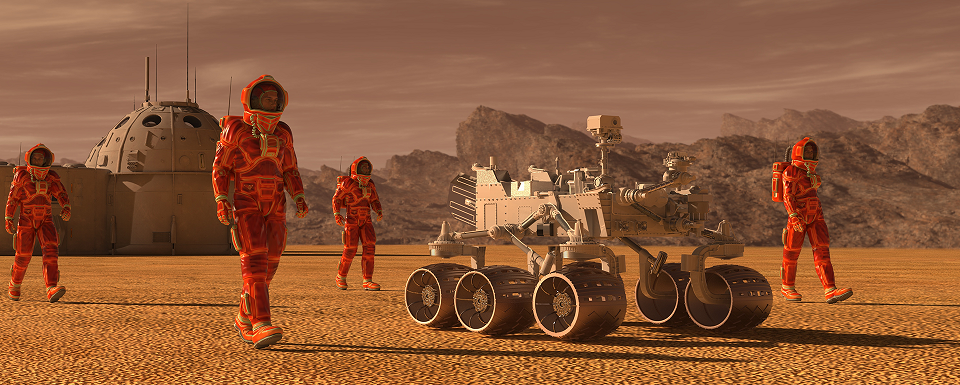
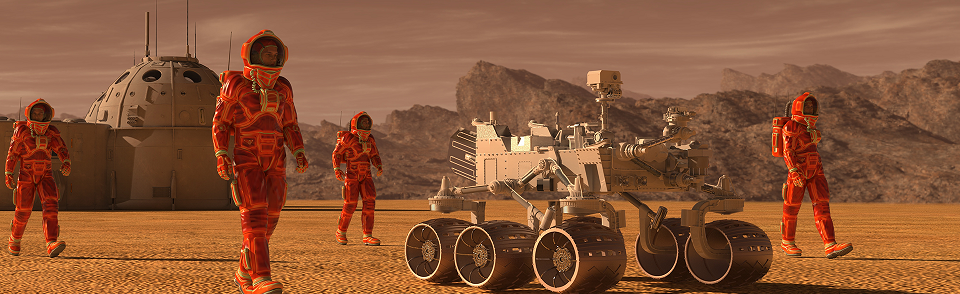
adding header Pic

diff --git a/Missions_to_Mars/templates/index.html b/Missions_to_Mars/templates/index.html
@@ -52,7 +52,7 @@
 
 <body style="background-color: black;">
   <div class="container ">
-    <div class="jumbotron text-center" style="background-image: url('https://raw.githubusercontent.com/nima-karimii/web-scraping-challenge/master/Missions_to_Mars/mission_to_mars.png'); border: 1px solid black">
+    <div class="jumbotron text-center" style="background-image: url('https://raw.githubusercontent.com/nima-karimii/web-scraping-challenge/master/Missions_to_Mars/mission_to_mars.png');background-size: cover; border: 1px solid black">
       <h1>Mission to Mars </h1>
       <p><a class="btn btn-primary btn-lg" href="../scrape" role="button">Scrape New Data</a></p>
     </div>
